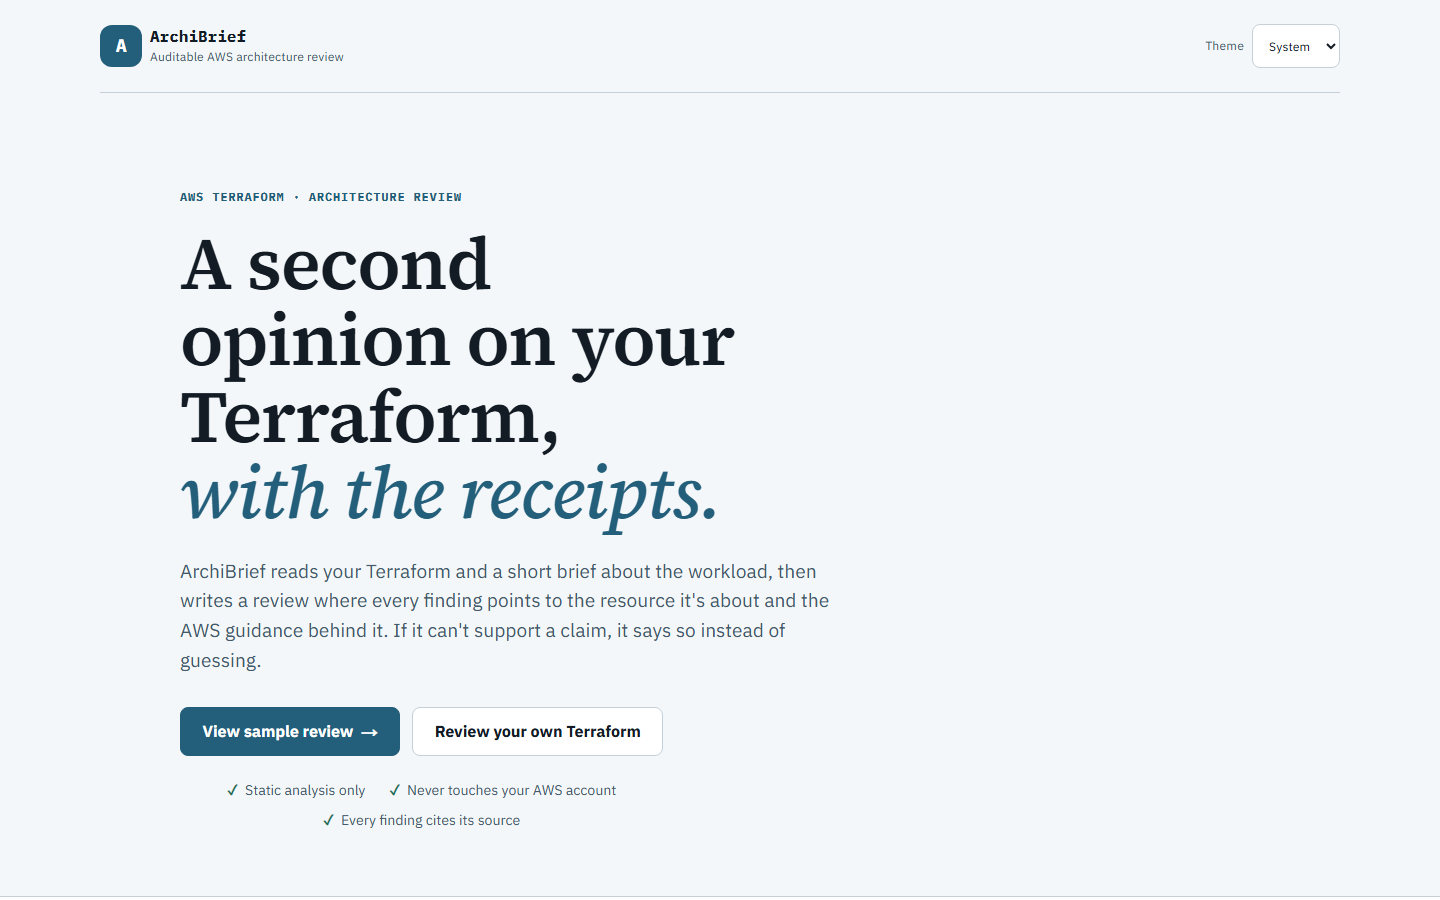
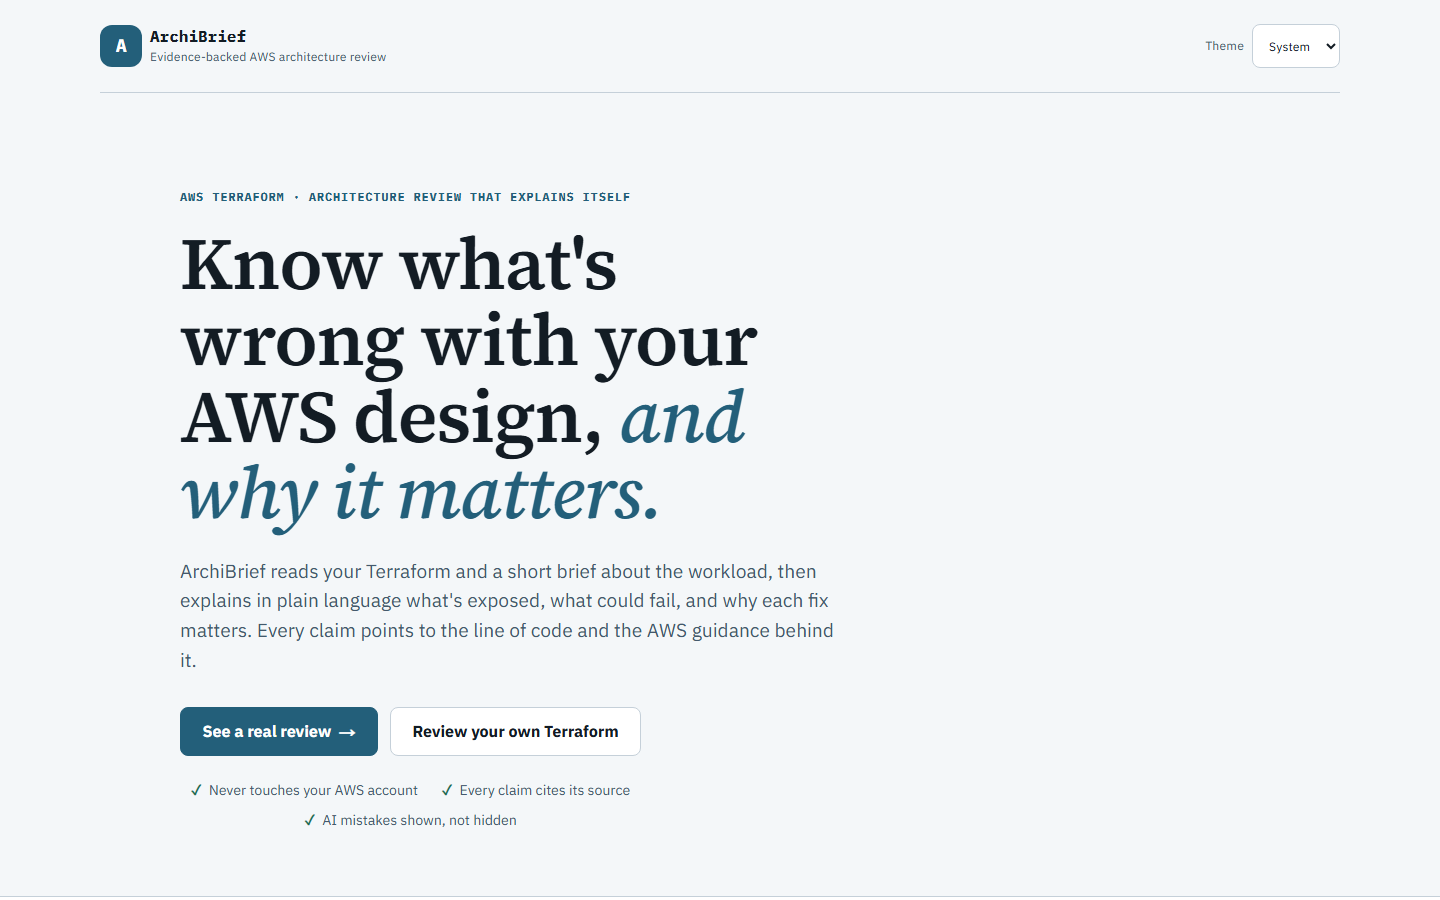
docs: retake README screenshots and GIF for the new landing and diagram

diff --git a/README.md b/README.md
@@ -59,16 +59,18 @@ Without `NEXT_PUBLIC_API_BASE_URL`, the UI uses the local fixture path. Playwrig
 
 Live at **[archibrief.dev](https://archibrief.dev)**: open any of the three demo reviews without an account.
 
-![Opening a demo review: landing, demo cards, report, reviewer note, stakeholder view and chat](docs/screenshots/demo.gif)
+![Opening a demo review: landing, demo cards, report, architecture diagram, reviewer note, guided report and chat](docs/screenshots/demo.gif)
 
 | | |
 |---|---|
-| ![Landing page](docs/screenshots/01-landing.png) | ![Finished demo reviews and example architectures](docs/screenshots/02-demo-cards.png) |
-| **Landing.** A second opinion on your Terraform, with the receipts. | **Try it.** Three finished reviews of real public Terraform, or start from an example. |
-| ![A finding with a reviewer note](docs/screenshots/04-reviewer-note.png) | ![Stakeholder view with demo provenance](docs/screenshots/05-stakeholder.png) |
-| **Evidence.** Each finding shows its evidence, confidence and source; the hand check's note marks one the model got wrong. | **Provenance.** Source, license and disclaimer, then the stakeholder view of the same evidence. |
-| ![Report chat with cited answers](docs/screenshots/06-chat.png) | ![Phone layout, dark theme](docs/screenshots/07-phone.png) |
-| **Chat.** Answers cite this review's findings or AWS guidance. | **Phone, dark theme.** |
+| ![Landing page](docs/screenshots/01-landing.png) | ![Three demo reviews of real public code](docs/screenshots/02-demo-cards.png) |
+| **Landing.** Know what's wrong with your AWS design, and why it matters. | **Real demos.** Three reviews of real public Terraform, checked by hand. |
+| ![Architecture diagram drawn from the code](docs/screenshots/03-diagram.png) | ![A finding with a reviewer note](docs/screenshots/04-reviewer-note.png) |
+| **Diagram.** Drawn from the code without a model; each finding sits on the resource it names. | **Evidence.** Each finding shows its evidence, confidence and source; the hand check's note marks one the model got wrong. |
+| ![Guided report for non-engineers](docs/screenshots/05-stakeholder.png) | ![Report chat with cited answers](docs/screenshots/06-chat.png) |
+| **Guided report.** The same evidence in plain language, for the person who has to say yes. | **Chat.** Answers cite this review's findings or AWS guidance. |
+| ![Phone layout, dark theme](docs/screenshots/07-phone.png) | |
+| **Phone, dark theme.** | |
 
 ## Repository map
 
